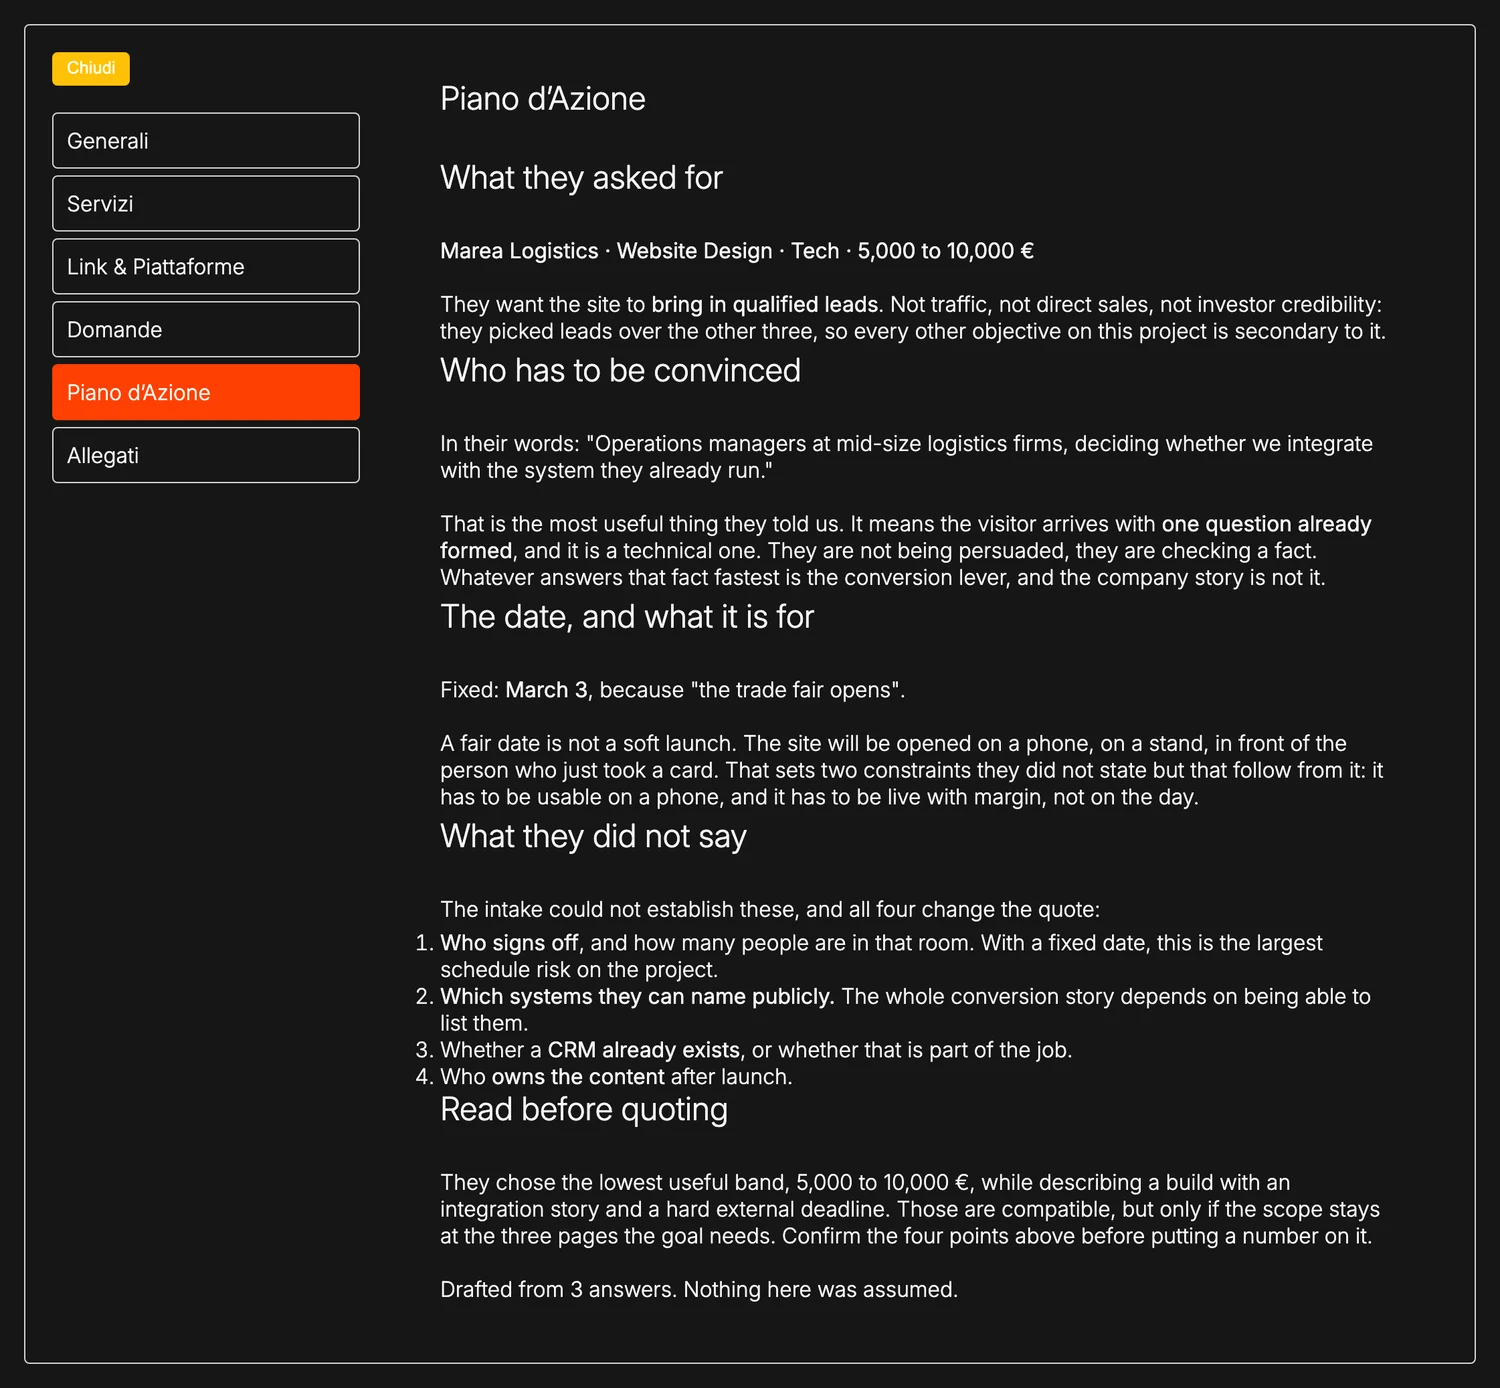
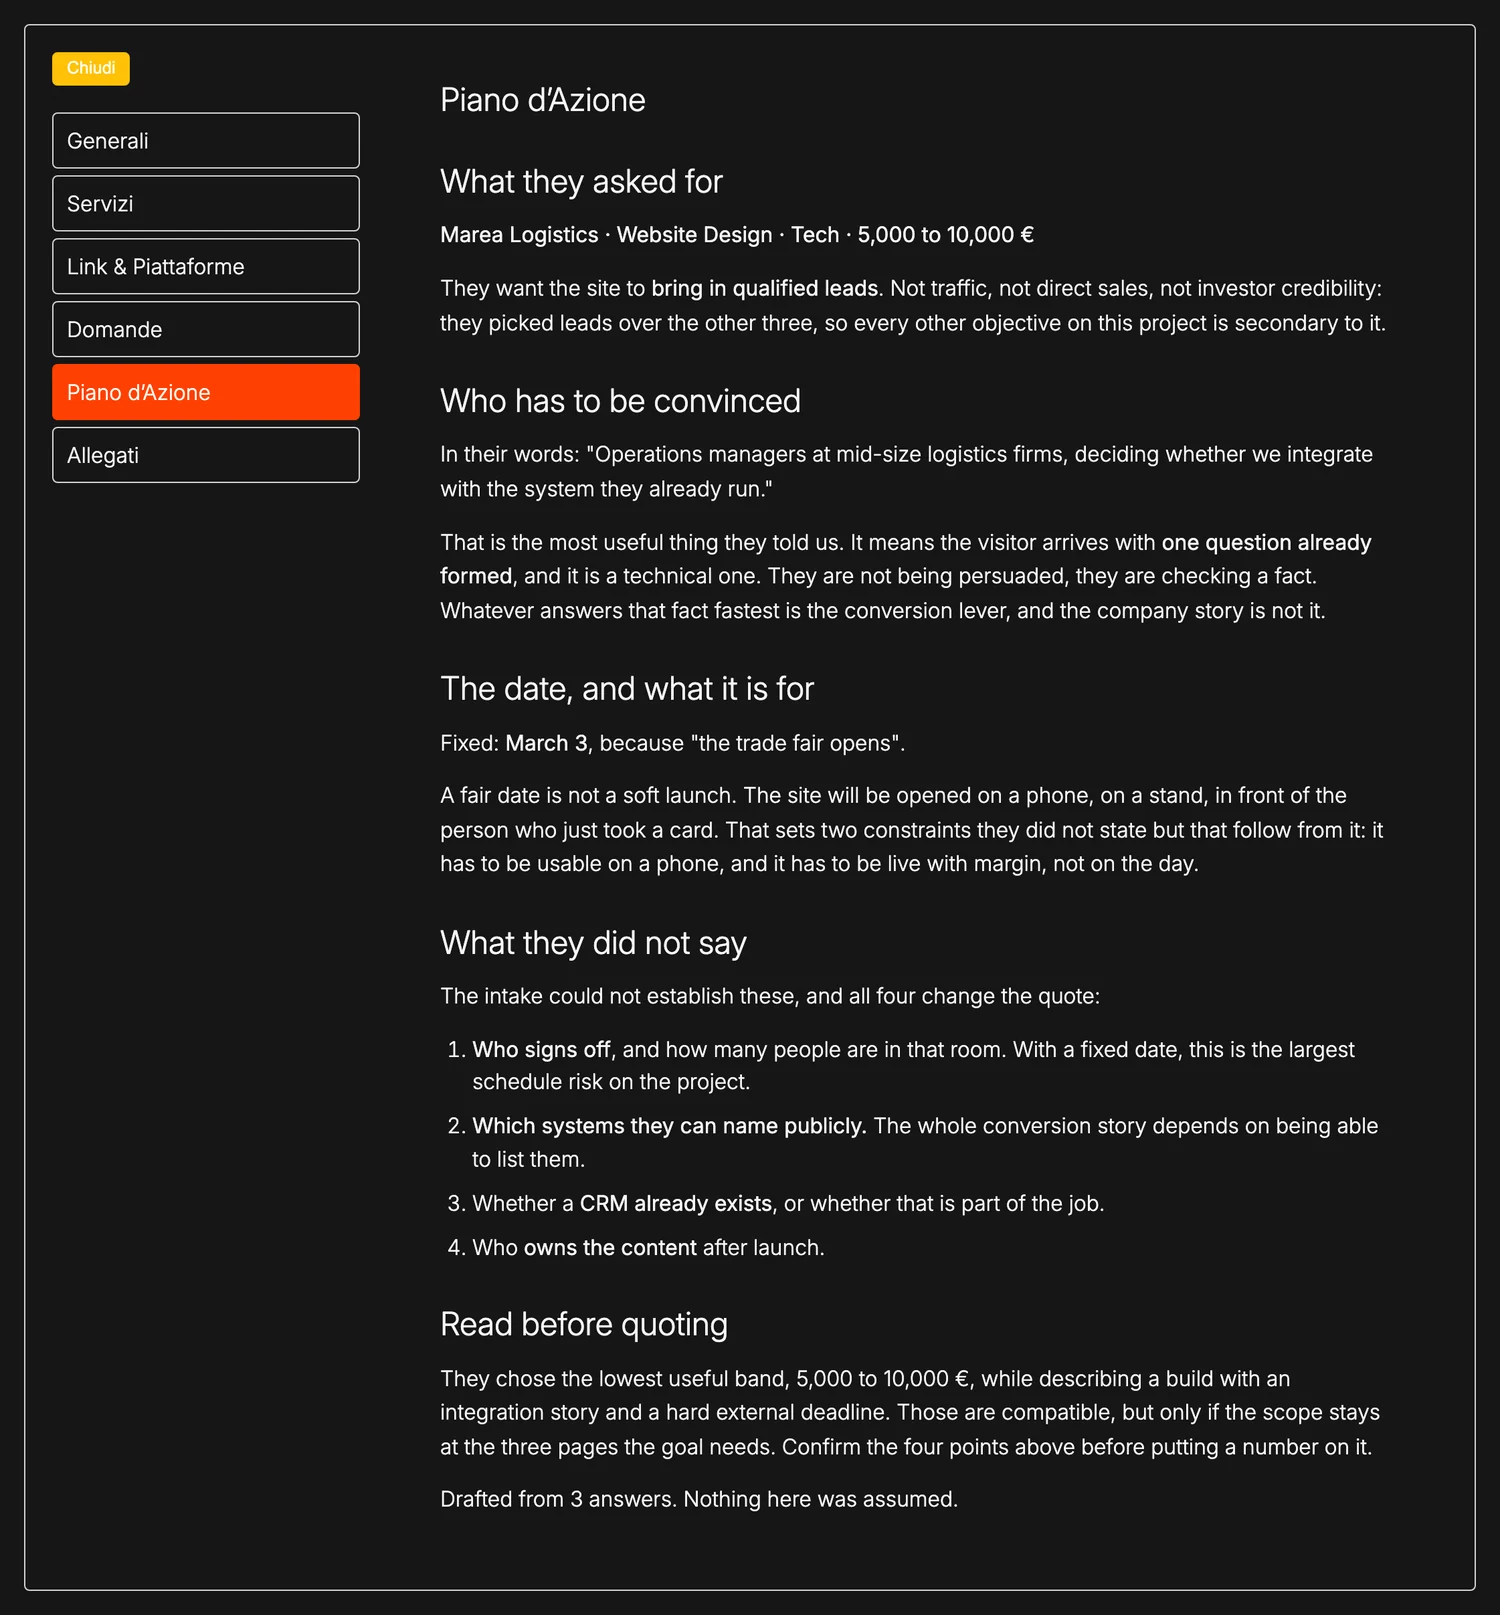
Fix the action plan spacing and say what the plan gives
The vertical rhythm was a real defect in the basic-adv dashboard, not a
capture artefact: .info-section h2/h3 carried margin-bottom and no
margin-top, so every heading sat tight against the paragraph above it and
left a gap below. .piano p made it worse with an inverted rhythm, 20px
above and 5px below. Fixed in that repo, uncommitted, and recaptured.

The caption defined the thing by what it is not. It now says what the
plan actually holds: the client's own words on what they want and who has
to be convinced, what the date is for, and the four things they never
said that change the quote.

Changed region(s): [[0.276, 0.062, 0.92, 0.9604], [0.0307, 0.031, 0.2453, 0.3408]]

diff --git a/src/components/work/workData.js b/src/components/work/workData.js
@@ -74,7 +74,7 @@ export const CASES = [
               src: formPlan,
               alt: "The generated action plan in the dashboard: the client's answers read back, with what the intake could not establish listed separately",
               caption:
-                "What the team opens. Not a checklist of our own process, but the client's answers read back and turned into something to quote from, with what they did not say listed instead of guessed.",
+                "What the team opens: the client's own words on what they want and who has to be convinced, what the date is for, and the four things they never said that change the quote.",
             },
           ],
         },
